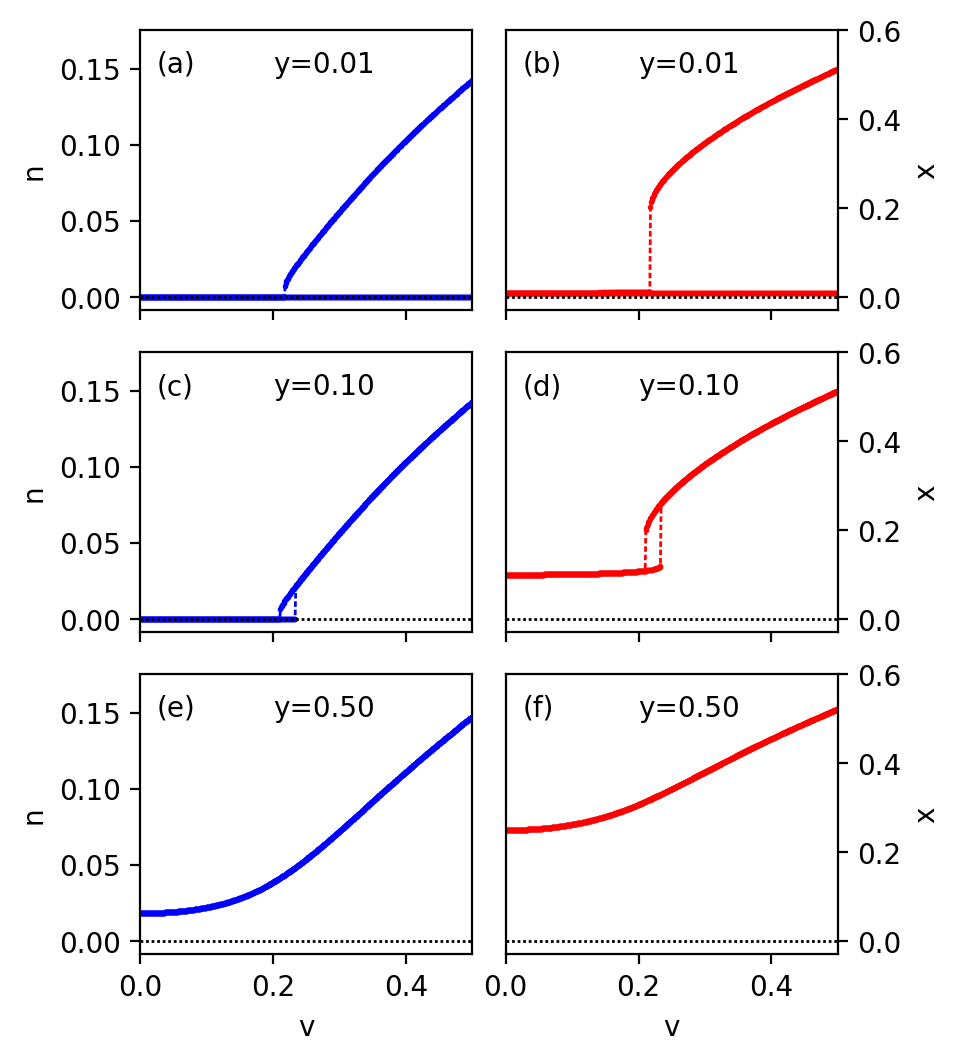
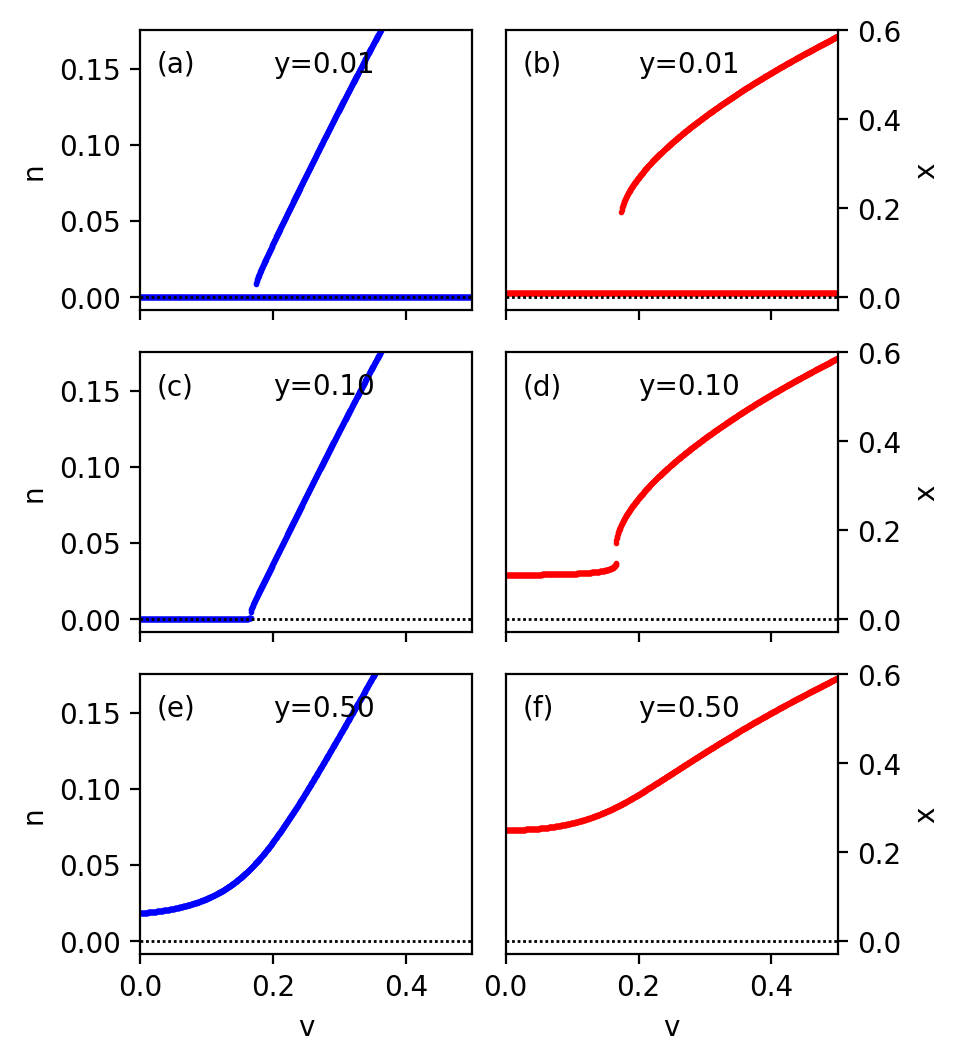
auto commit

diff --git a/bistable/defects/m_bistable_defects.py b/bistable/defects/m_bistable_defects.py
@@ -38,124 +38,72 @@ class c_bistable_defects:
 
     # ----------------------------------------------------------------------------------------------
 
-    def solve(self,n_lo_guess=0.0,n_hi_guess=1.0,max_iter=1000,n_tol=1e-9,alpha=0.4,count=None):
+    def solve(self):
 
         """
-        we look for two solutions for n (there may be more that we miss!). we have to solve 
-            self-consistently, so how we find different solutions is we have to make a guess
-            close the different solutions. we just pick n->0 and n->1 and solve for each. if they
-            converge to the same solution, there is only one. if they are different, there is
-            multistability!
+        ...
         """
 
         # low n guess
-        print(f'\nsolving for low n guess: n_in={n_lo_guess:6.4f}')
-        n_lo, x_lo = self._solve_self_consistent(n_lo_guess,max_iter,n_tol,alpha)
-        j_lo = self._calculate_current(n_lo,x_lo) 
+        x0, n0 = self._solve()
+        j0 = self._calc_current(x0,n0)
 
-        # hi n guess
-        print(f'\nsolving for high n guess: n_in={n_hi_guess:6.4f}')
-        n_hi, x_hi = self._solve_self_consistent(n_hi_guess,max_iter,n_tol,alpha)
-        j_hi = self._calculate_current(n_hi,x_hi) 
+        if x0.size > 1:
+            mulitstable = True
+        else: 
+            mulitstable = False
 
-        n_diff = n_hi-n_lo
-        x_diff = x_hi-x_lo
+        v = self.v
+        y = self.y
+        z = self.z
 
-        msg = '\n*** RESULTS ***'
-        if count is not None:
-            msg += f'\ncount: {count}'
-        msg += f'\n% n_lo: {n_lo:9.6e}'
-        msg += f'\n% x_lo: {x_lo:9.6e}'
-        msg += f'\n% j_lo: {j_lo:9.6e}'
-        msg += f'\n% n_hi: {n_hi:9.6e}'
-        msg += f'\n% x_hi: {x_hi:9.6e}'
-        msg += f'\n% j_hi: {j_hi:9.6e}'
-        msg += f'\n% n_diff: {n_diff:9.6f}'
-        msg += f'\n% x_diff: {x_diff:9.6f}'
-        msg += f'\n% v: {self.v:9.6f}'
-        msg += f'\n% y: {self.y:9.6f}'
-        print(msg)
+        print('y:',y)
+        print('v:',v)
+        print('z:',z)
+        print('x0:',x0)
+        print('n0:',n0)
 
-        return n_lo, x_lo, n_hi, x_hi, n_diff, x_diff
+        return x0, n0, j0, v ,y ,z
 
     # ----------------------------------------------------------------------------------------------
 
-    def _solve_self_consistent(self,n_in,max_iter,n_tol,alpha):
-        
-        """
-        solve for n self consistently: make a guess for n_in and calculate x from dot U = 0. 
-            use this x to solve dot n = 0, i.e. n_out = e^(-1/x). if n_in and n_out are the same,
-            its solved. otherwise, make a new guess for n_in and repeat until n_out = n_in to 
-            within tolerances.
-        """
-
-        print('\n  iter   n_in    n_out   convergence')
-        print('--------------------------------------')
-
-        converged = False
-        for iter in range(max_iter):
-
-            # solve for x(n). 
-            x_0 = self._solve_dot_U_0(n_in)
-
-            # solve n=exp(-1/x(n))
-            n_out = self._solve_dot_n_0(x_0)
-            residual = np.abs(n_out-n_in)
-
-            print(f'{iter:5d}   {n_in:6.4f}   {n_out:6.4f}   {residual:5.2e}')
-
-            # check convergence
-            if residual <= n_tol:
-                converged = True
-                break
-
-            # make new guess
-            n_in = np.copy(self._simple_mixing(n_in,n_out,alpha))
-
-        if not converged:
-            print('\n*** WARNING ***\nfailed to converge!\n')
-        else:
-            print(f'\nconverged!\nn={n_out:6.4f}, x={x_0:6.4f}')
-
-        return n_out, x_0
-
-    # ----------------------------------------------------------------------------------------------
-
-    def _solve_dot_U_0(self,n):
+    def _solve(self):
 
         """
-        solve 0 = v^2 n + x ( y^4 - x^4 )for x
+        solve 0 = v^2 n / x + y^4 - x^4 for x
+            with n = e^(-(1-vz)/x) 
         """
 
         _x = self.x
         _y = self.y
         _vsq = self.vsq
 
-        _f = _vsq * n + _x * ( _y**4 - _x**4 )
+        _n = self._calc_n(_x)
+
+        _f = _vsq * _n / _x + ( _y**4 - _x**4 )
         _inds, _ = self._find_zeros(_f)
 
-        _zeros = _x[_inds]
-        if _zeros.size > 1:
-            print('fuck')
-            print(_zeros)
-            
-        x0 = _zeros[0]
+        x0 = _x[_inds]
+        n0 = self._calc_n(x0)
 
-        return x0
+        return x0, n0
     
     # ----------------------------------------------------------------------------------------------
 
-    def _solve_dot_n_0(self,x_0):
+    def _calc_n(self,x_0):
 
         """
-        solve n = e^(-1/x)
+        solve n = e^(-(1-vz)/x)
         """
 
-        return np.exp(-1/x_0)
+        _v = self.v
+        _z = self.z
+
+        return np.exp(-(1 - _v * _z )/x_0)
     
     # ----------------------------------------------------------------------------------------------
 
-    def _calculate_current(self,n,x):
+    def _calc_current(self,n,x):
 
         """
         solve v = j x/n => j = v n / x
@@ -178,16 +126,6 @@ class c_bistable_defects:
     
     # ----------------------------------------------------------------------------------------------
 
-    def _simple_mixing(self,n_in,n_out,alpha):
-
-        """
-        simple mixing: n^(i+1)_in = alpha * n^i_out + (1-alpha) * n^i_in
-        """ 
-
-        return alpha * n_out + (1-alpha) * n_in
-
-    # ----------------------------------------------------------------------------------------------
-        
     
 # --------------------------------------------------------------------------------------------------
 
@@ -237,44 +175,48 @@ def run_sweep():
 
 # --------------------------------------------------------------------------------------------------
 
-def run_v_sweep(y=0.025):
+def run_v_sweep(y=0.025,z=0.5):
 
     """
     sweep over v
     """
 
     nv = 1001
-    v = np.linspace(0.0,1.0,nv)
+    v = np.linspace(0.0,0.5,nv)
 
-    n_diff = np.zeros(nv,dtype=float)
-    x_diff = np.zeros(nv,dtype=float)
-    n_lo = np.zeros(nv,dtype=float)
-    x_lo = np.zeros(nv,dtype=float)
-    n_hi = np.zeros(nv,dtype=float)
-    x_hi = np.zeros(nv,dtype=float)
+    n = np.zeros((nv,3),dtype=float)
+    x = np.zeros((nv,3),dtype=float)
+    j = np.zeros((nv,3),dtype=float)
 
     count = 0
     for ii, vv in enumerate(v):
 
         print(f'\ncount: {count}')
         
-        bistable = c_bistable_defects(v=vv,y=y,x_hi=2.0,num_x=10001)
-        n_lo[ii], x_lo[ii], n_hi[ii], x_hi[ii], n_diff[ii], x_diff[ii] = \
-            bistable.solve(count=count)
+        bistable = c_bistable_defects(v=vv,y=y,z=z,x_hi=1.0,num_x=10001)
+        x0, n0, j0, _, _, _ = bistable.solve()
+
+        print(x0)
+
+        if x0.size > 1:
+            x[ii,...] = x0
+            n[ii,...] = n0
+            j[ii,...] = j0
+        else:
+            x[ii,0] = x0.squeeze()
+            n[ii,0] = n0.squeeze()
+            j[ii,0] = j0.squeeze()
 
         count += 1
 
     # write results to hdf5 file
     with h5py.File(f'results_v_sweep_y_{y:.3f}.h5','w') as db:
 
-        db.create_dataset('n_lo',data=n_lo)
-        db.create_dataset('x_lo',data=x_lo)
-        db.create_dataset('n_hi',data=n_hi)
-        db.create_dataset('x_hi',data=x_hi)
-        db.create_dataset('n_diff',data=n_diff)
-        db.create_dataset('x_diff',data=x_diff)
-        db.create_dataset('y',data=y)
+        db.create_dataset('n',data=n)
+        db.create_dataset('x',data=x)
         db.create_dataset('v',data=v)
+        db.create_dataset('y',data=y)
+        db.create_dataset('z',data=z)
 
 # --------------------------------------------------------------------------------------------------
 
@@ -282,12 +224,11 @@ if __name__ == '__main__':
 
     # run_sweep()
 
-    # run_v_sweep(y=0.01)
-    # run_v_sweep(y=0.1)
-    # run_v_sweep(y=0.25)
-    # run_v_sweep(y=0.5)
-    # run_v_sweep(y=1.0)
+    run_v_sweep(y=0.01)
+    run_v_sweep(y=0.1)
+    run_v_sweep(y=0.25)
+    run_v_sweep(y=0.5)
 
-    bistable = c_bistable_defects(v=0.5,y=0.5)
-    bistable.solve()
+    # bistable = c_bistable_defects(v=0.22,y=0.1,x_hi=1.0)
+    # bistable.solve()
         

diff --git a/bistable/defects/plot_v_sweep.py b/bistable/defects/plot_v_sweep.py
@@ -7,42 +7,52 @@ def get_data(filename):
         
     with h5py.File(filename,'r') as db:
 
-        n_lo = db['n_lo'][...]
-        n_hi = db['n_hi'][...]
-        x_lo = db['x_lo'][...]
-        x_hi = db['x_hi'][...]
+        n = db['n'][...]
+        x = db['x'][...]
         v = db['v'][...]
         y = db['y'][...]
+
+    n_lo = n[:,0]
+    n_hi = n[:,-1]
+
+    x_lo = x[:,0]
+    x_hi = x[:,-1]
+    
+    n_hi[x_hi == 0.0] = np.nan
+    x_hi[x_hi == 0.0] = np.nan
 
     return n_lo, n_hi, x_lo, x_hi, v, y
 
 fig, ax = plt.subplots(3,2,figsize=(4.5,6),gridspec_kw={'hspace':0.15,'wspace':0.1})
 
 n_lo, n_hi, x_lo, x_hi, v, y = get_data('results_v_sweep_y_0.010.h5')
-ax[0,0].plot(v,n_lo,c='b',lw=1,ls=(0,(2,1)),marker='o',ms=1)
-ax[0,0].plot(v,n_hi,c='b',lw=1,ls=(0,(2,1)),marker='o',ms=1)
-ax[0,1].plot(v,x_lo,c='r',lw=1,ls=(0,(2,1)),marker='o',ms=1)
-ax[0,1].plot(v,x_hi,c='r',lw=1,ls=(0,(2,1)),marker='o',ms=1)
+
+ax[0,0].plot(v,n_lo,c='b',lw=0,marker='o',ms=1)
+ax[0,1].plot(v,x_lo,c='r',lw=0,marker='o',ms=1)
+
+ax[0,1].plot(v,x_hi,c='r',lw=0,marker='o',ms=1)
+ax[0,0].plot(v,n_hi,c='b',lw=0,marker='o',ms=1)
+
 ax[0,0].annotate('(a)',xy=(0.05,0.85),xycoords='axes fraction',c='k')
 ax[0,0].annotate('y=0.01',xy=(0.4,0.85),xycoords='axes fraction',c='k')
 ax[0,1].annotate('(b)',xy=(0.05,0.85),xycoords='axes fraction',c='k')
 ax[0,1].annotate('y=0.01',xy=(0.4,0.85),xycoords='axes fraction',c='k')
 
 n_lo, n_hi, x_lo, x_hi, v, y = get_data('results_v_sweep_y_0.100.h5')
-ax[1,0].plot(v,n_lo,c='b',lw=1,ls=(0,(2,1)),marker='o',ms=1)
-ax[1,0].plot(v,n_hi,c='b',lw=1,ls=(0,(2,1)),marker='o',ms=1)
-ax[1,1].plot(v,x_lo,c='r',lw=1,ls=(0,(2,1)),marker='o',ms=1)
-ax[1,1].plot(v,x_hi,c='r',lw=1,ls=(0,(2,1)),marker='o',ms=1)
+ax[1,0].plot(v,n_lo,c='b',lw=0,marker='o',ms=1)
+ax[1,0].plot(v,n_hi,c='b',lw=0,marker='o',ms=1)
+ax[1,1].plot(v,x_lo,c='r',lw=0,marker='o',ms=1)
+ax[1,1].plot(v,x_hi,c='r',lw=0,marker='o',ms=1)
 ax[1,0].annotate('(c)',xy=(0.05,0.85),xycoords='axes fraction',c='k')
 ax[1,0].annotate('y=0.10',xy=(0.4,0.85),xycoords='axes fraction',c='k')
 ax[1,1].annotate('(d)',xy=(0.05,0.85),xycoords='axes fraction',c='k')
 ax[1,1].annotate('y=0.10',xy=(0.4,0.85),xycoords='axes fraction',c='k')
 
 n_lo, n_hi, x_lo, x_hi, v, y = get_data('results_v_sweep_y_0.250.h5')
-ax[2,0].plot(v,n_lo,c='b',lw=1,ls=(0,(2,1)),marker='o',ms=1)
-ax[2,0].plot(v,n_hi,c='b',lw=1,ls=(0,(2,1)),marker='o',ms=1)
-ax[2,1].plot(v,x_lo,c='r',lw=1,ls=(0,(2,1)),marker='o',ms=1)
-ax[2,1].plot(v,x_hi,c='r',lw=1,ls=(0,(2,1)),marker='o',ms=1)
+ax[2,0].plot(v,n_lo,c='b',lw=0,marker='o',ms=1)
+ax[2,0].plot(v,n_hi,c='b',lw=0,marker='o',ms=1)
+ax[2,1].plot(v,x_lo,c='r',lw=0,marker='o',ms=1)
+ax[2,1].plot(v,x_hi,c='r',lw=0,marker='o',ms=1)
 ax[2,0].annotate('(e)',xy=(0.05,0.85),xycoords='axes fraction',c='k')
 ax[2,0].annotate('y=0.50',xy=(0.4,0.85),xycoords='axes fraction',c='k')
 ax[2,1].annotate('(f)',xy=(0.05,0.85),xycoords='axes fraction',c='k')
